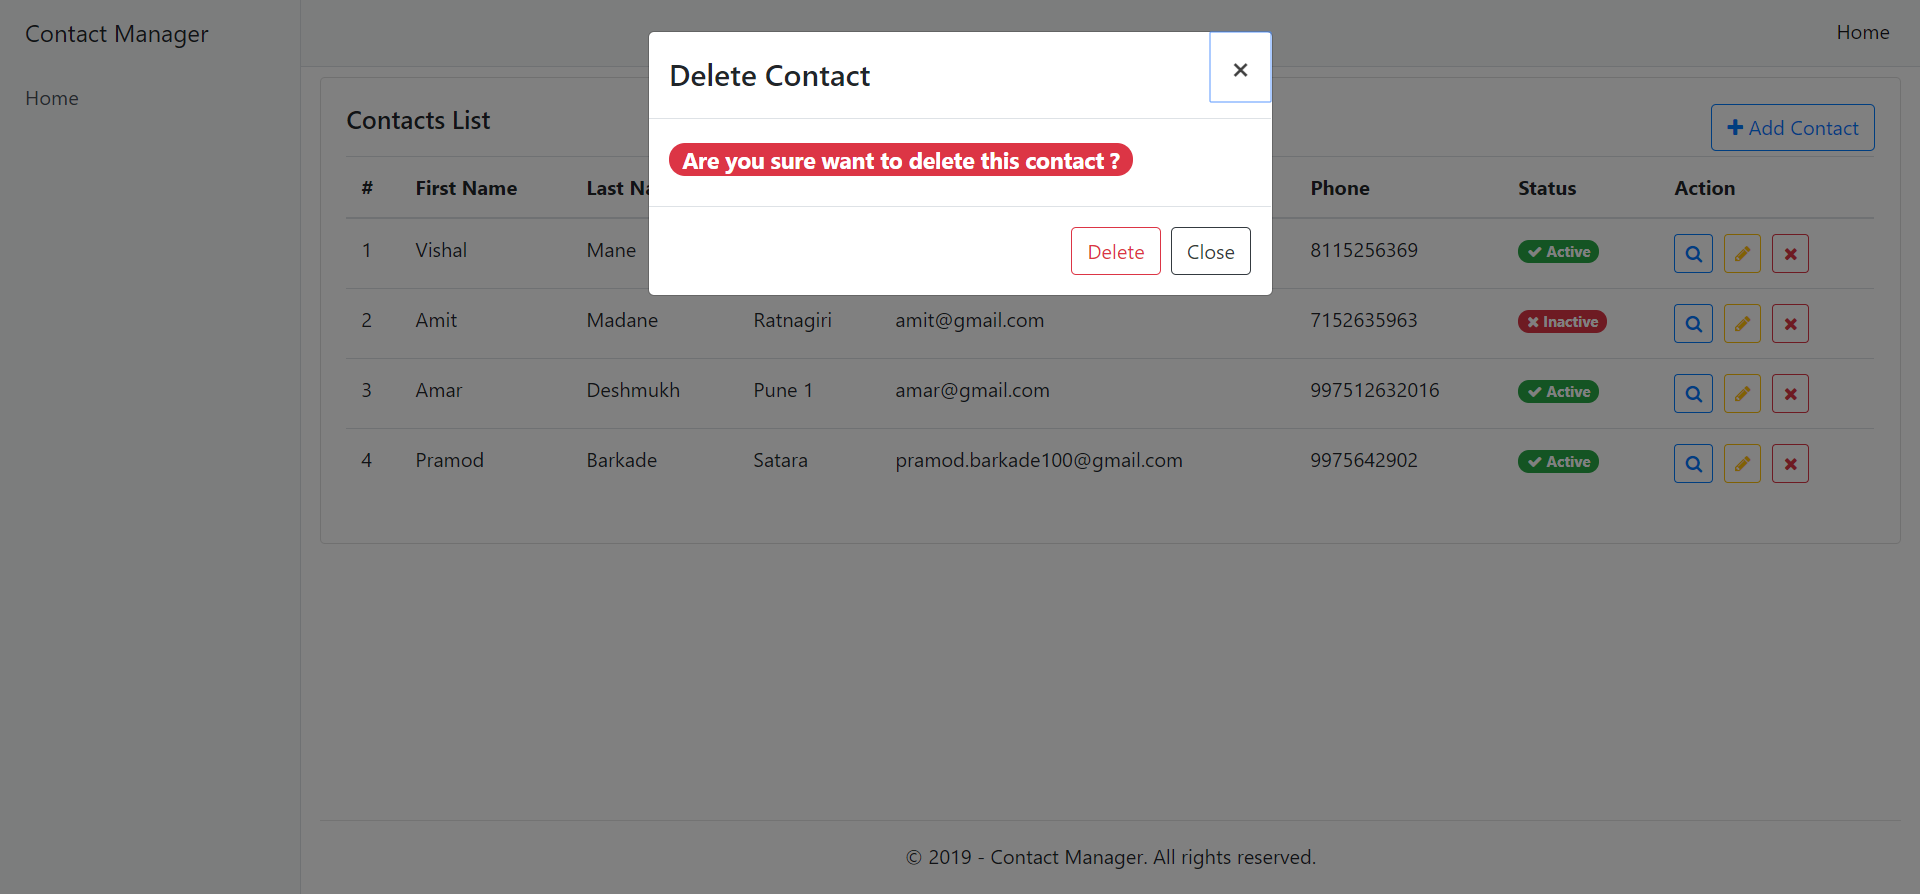
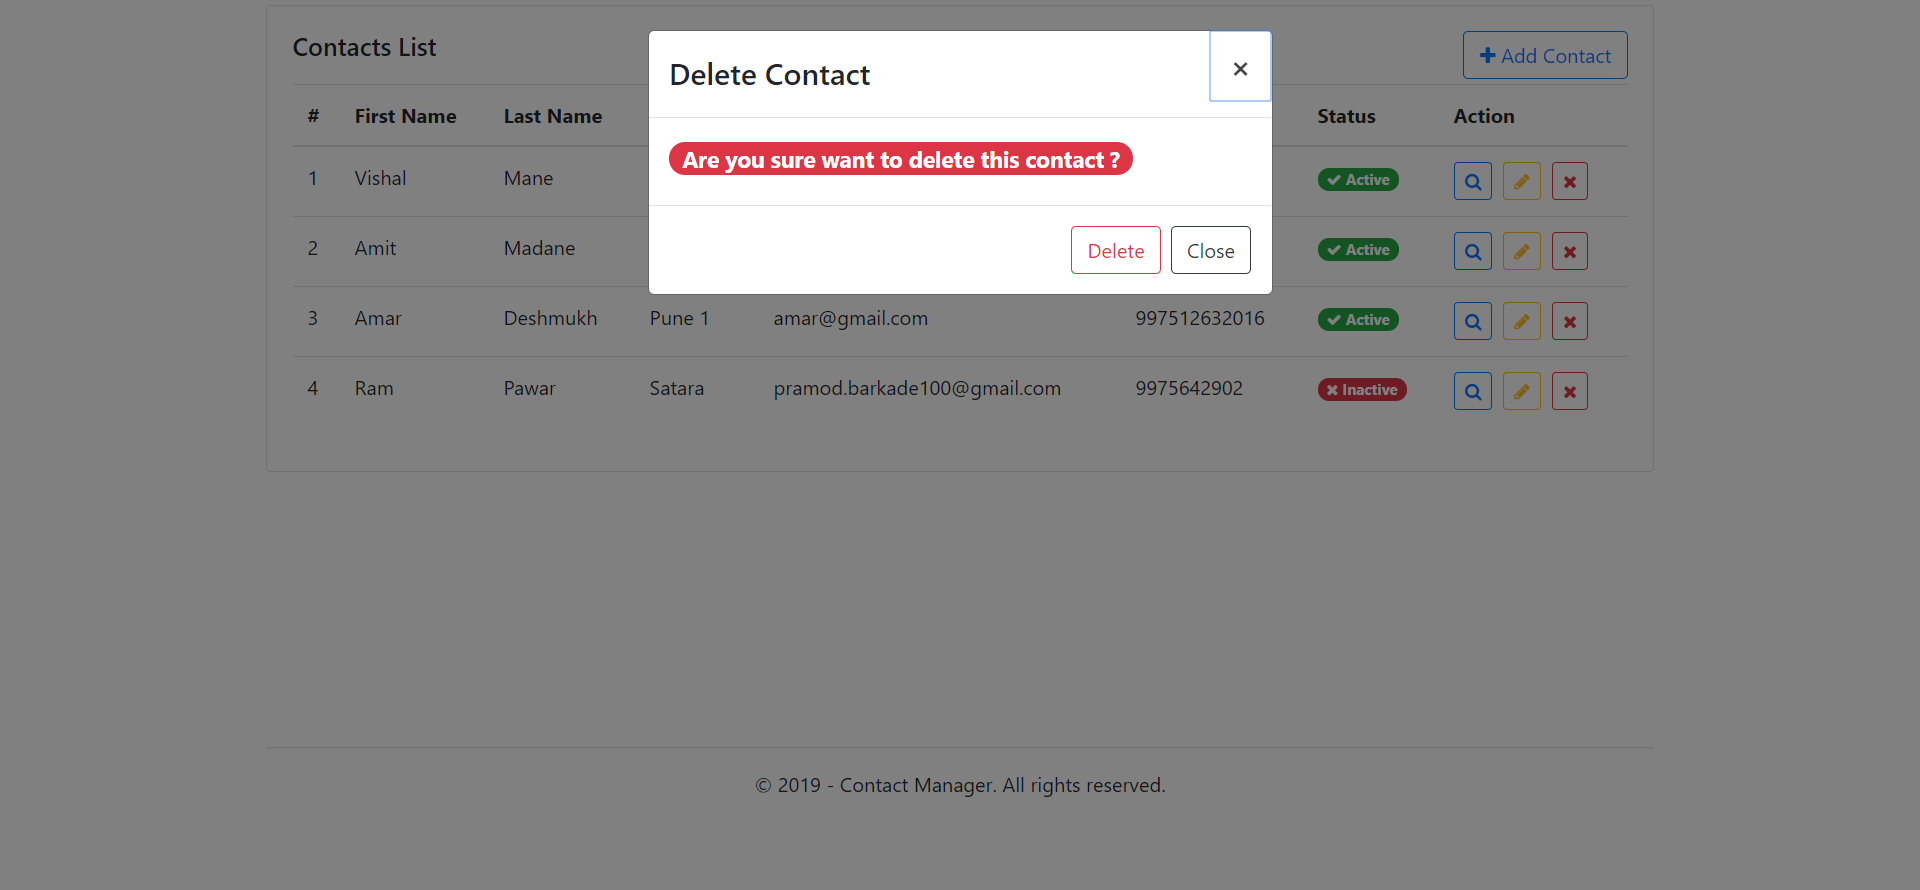
v.1.0.0

diff --git a/src/Web/EvolentExerciseApp.Web/ClientApp/src/app/app.component.html b/src/Web/EvolentExerciseApp.Web/ClientApp/src/app/app.component.html
@@ -1,43 +1,11 @@
-
-      <div class="d-flex" id="wrapper">
-
-          <!-- Sidebar -->
-          <div class="bg-light border-right" id="sidebar-wrapper">
-            <div class="sidebar-heading">Contact Manager</div>
-            <div class="list-group list-group-flush">
-              <a href="#" class="list-group-item list-group-item-action bg-light">Home</a>              
-            </div>
-          </div>
-          <!-- /#sidebar-wrapper -->
-      
-          <!-- Page Content -->
-          <div id="page-content-wrapper">
-      
-            <nav class="navbar navbar-expand-lg navbar-light bg-light border-bottom">                    
-              <div class="collapse navbar-collapse" id="navbarSupportedContent">
-                <ul class="navbar-nav ml-auto mt-2 mt-lg-0">
-                  <li class="nav-item active">
-                    <a class="nav-link" href="#">Home <span class="sr-only">(current)</span></a>
-                  </li>                                 
-                </ul>
-              </div>
-            </nav>
-      
-            <div class="container-fluid">
-                <div>
-                    <div class="main-section">
-                        <router-outlet></router-outlet>
-                      </div>
-                  <footer class="text-center">
-                    <hr>
-                    <p>© 2019 - Contact Manager. All rights reserved.</p>
-                  </footer>
-                 </div>
-            </div>
-          </div>
-          <!-- /#page-content-wrapper -->
-      
-        </div>
-        <!-- /#wrapper -->
-
-      
+<div class="container">
+  <div>
+    <div class="main-section">
+      <router-outlet></router-outlet>
+    </div>
+    <footer class="text-center">
+      <hr>
+      <p>© 2019 - Contact Manager. All rights reserved.</p>
+    </footer>
+  </div>
+</div>

diff --git a/src/Web/EvolentExerciseApp.Web/ClientApp/src/app/app.component.css b/src/Web/EvolentExerciseApp.Web/ClientApp/src/app/app.component.css
@@ -1,49 +1,3 @@
 .main-section {
     min-height: 80vh;
 }
-
-/* Toggle Styles */
-body {
-  overflow-x: hidden;
-}
-
-#sidebar-wrapper {
-  min-height: 100vh;
-  margin-left: -15rem;
-  -webkit-transition: margin .25s ease-out;
-  -moz-transition: margin .25s ease-out;
-  -o-transition: margin .25s ease-out;
-  transition: margin .25s ease-out;
-}
-
-#sidebar-wrapper .sidebar-heading {
-  padding: 0.875rem 1.25rem;
-  font-size: 1.2rem;
-}
-
-#sidebar-wrapper .list-group {
-  width: 15rem;
-}
-
-#page-content-wrapper {
-  min-width: 100vw;
-}
-
-#wrapper.toggled #sidebar-wrapper {
-  margin-left: 0;
-}
-
-@media (min-width: 768px) {
-  #sidebar-wrapper {
-    margin-left: 0;
-  }
-
-  #page-content-wrapper {
-    min-width: 0;
-    width: 100%;
-  }
-
-  #wrapper.toggled #sidebar-wrapper {
-    margin-left: -15rem;
-  }
-}

diff --git a/src/Web/EvolentExerciseApp.Web/ClientApp/src/app/pages/contact/contact.component.html b/src/Web/EvolentExerciseApp.Web/ClientApp/src/app/pages/contact/contact.component.html
@@ -58,7 +58,7 @@
               </td>
               <td>
                 <button type="button" class="btn btn-sm btn-outline-primary" title="View Contact"
-                  (click)="viewEditContact(addEditViewContactModel, 'lg', 'View Contact', item.id, 1)"><i
+                  (click)="viewEditContact(addEditViewContactModel, 'lg', 'View Contact', item.id, 0)"><i
                     class="fa fa-search"></i></button>&nbsp;
                 <button type="button" class="btn btn-sm btn-outline-warning" title="Edit Contact"
                   (click)="viewEditContact(addEditViewContactModel, 'lg', 'Edit Contact', item.id, 2)"><i

diff --git a/src/Web/EvolentExerciseApp.Web/ClientApp/src/index.html b/src/Web/EvolentExerciseApp.Web/ClientApp/src/index.html
@@ -1,7 +1,8 @@
 <!doctype html>
 <html lang="en">
-<head>
-  <meta charset="utf-8">
+<head>  
+   <meta charset="utf-8">
+   <meta name="viewport" content="width=device-width, initial-scale=1, shrink-to-fit=no">
   <title>Contact Manager App</title>
   <base href="/">
   <meta name="viewport" content="width=device-width, initial-scale=1">
